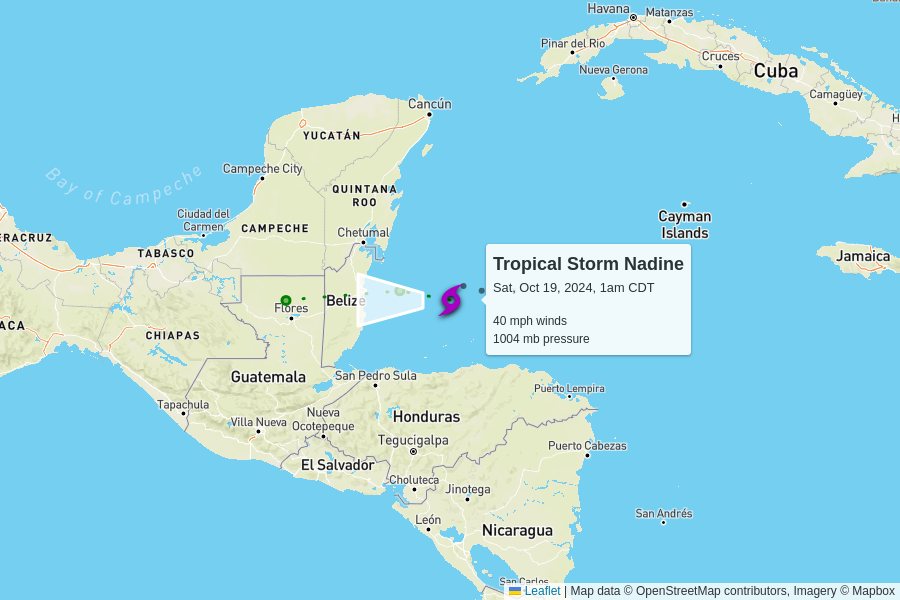
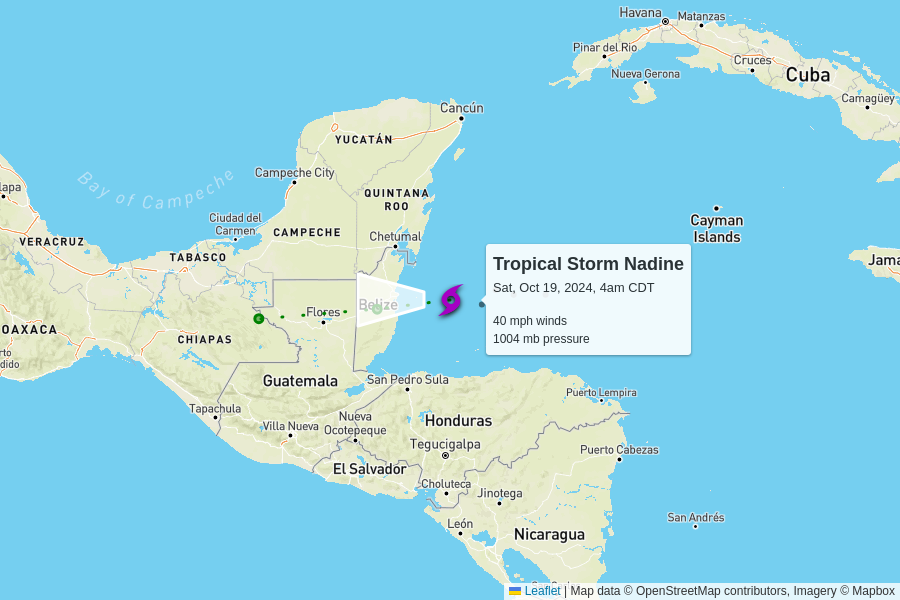
automatic update

diff --git a/docs/index.html b/docs/index.html
@@ -102,7 +102,7 @@
         <td colspan="6" class="storm category-0" >
           <h2>
             Tropical Storm Nadine
-            <p class="updated">last updated <span data-time>2024-10-19T06:00:00.000Z</span></p>
+            <p class="updated">last updated <span data-time>2024-10-19T09:00:00.000Z</span></p>
           </h2>
         </td>
       </tr>
@@ -117,10 +117,10 @@
       </tr>
       <tr>
         <td class="spacer"></td>
-        <td>40 mph<br>+5 mph since last update</td>
-        <td>1004 mb<br>-1 mb since last update</td>
+        <td>40 mph<br>0 mph since last update</td>
+        <td>1004 mb<br>0 mb since last update</td>
         <td>
-          8 mph to the west
+          9 mph to the west
           <br/>
           <span style="display: inline-block; font-size: 1.5em; transform: rotate(270deg);">↑</span>
         </td>
